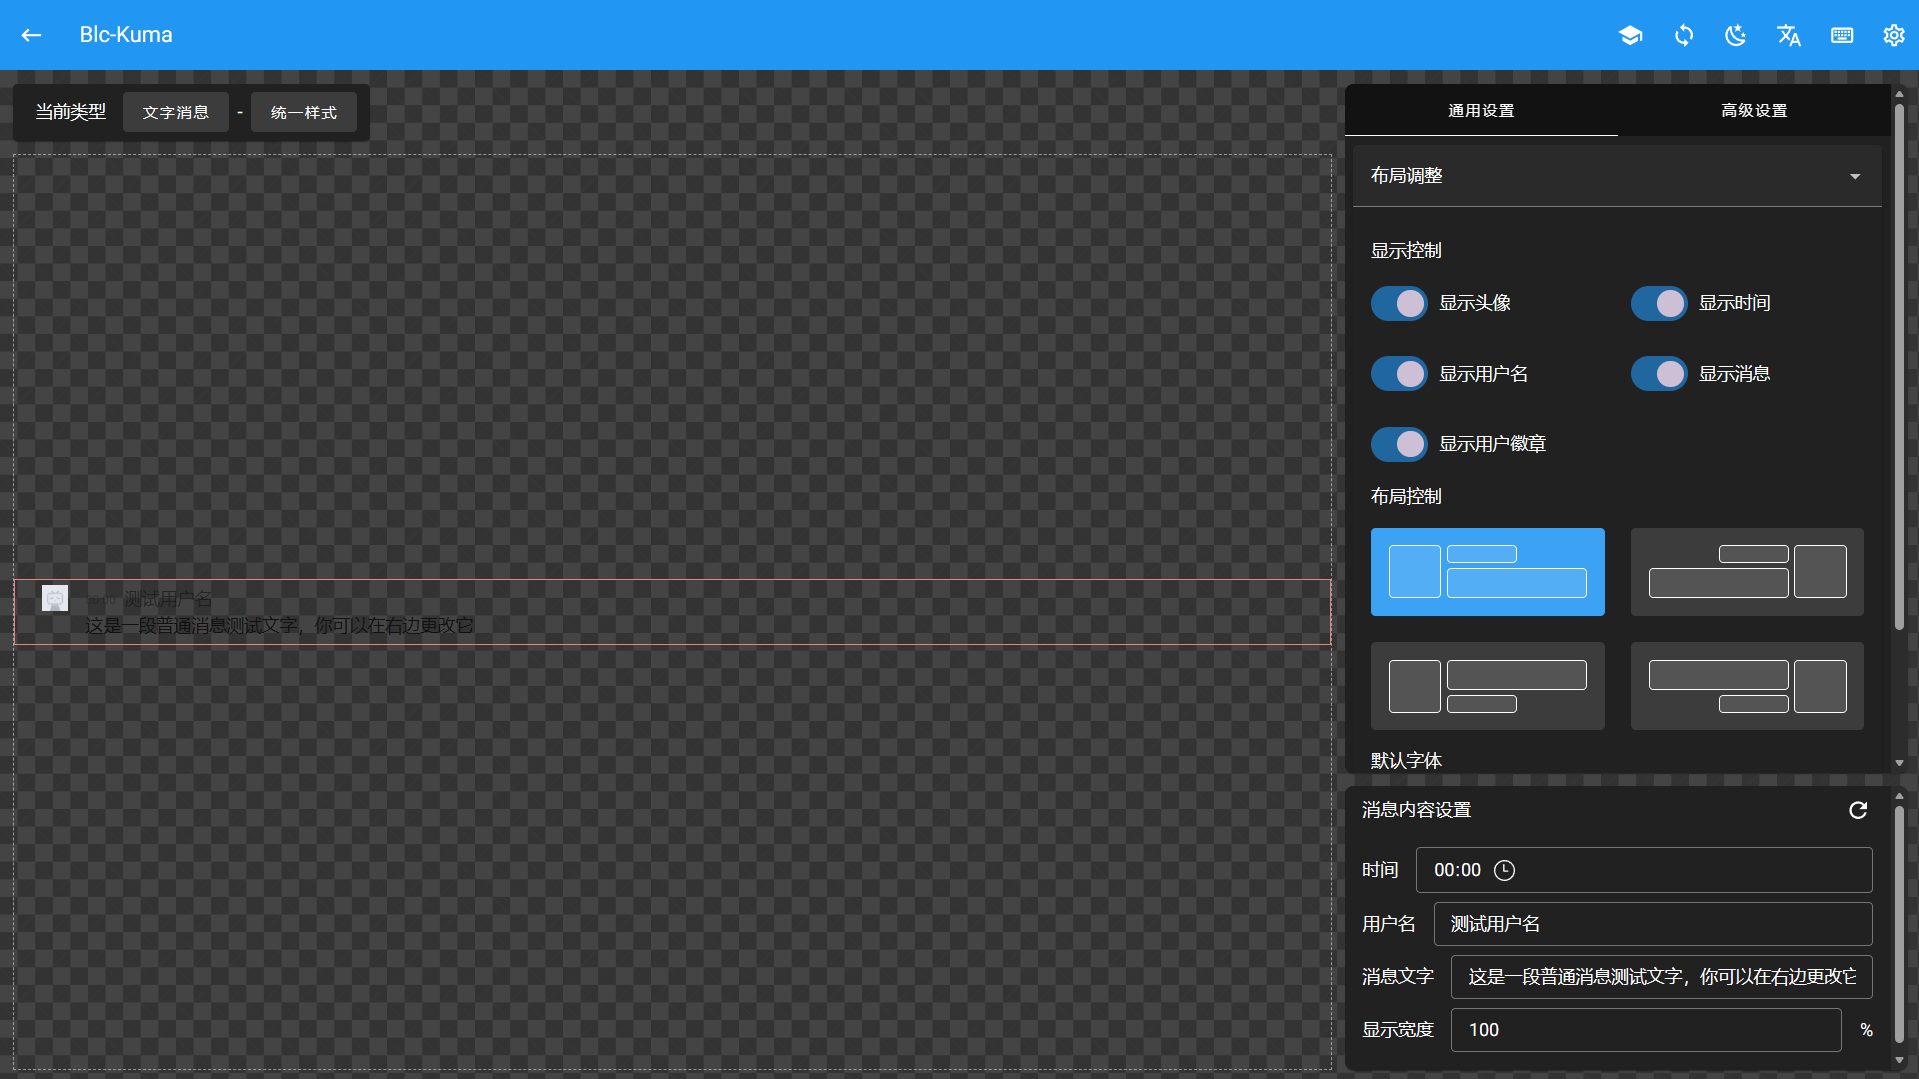
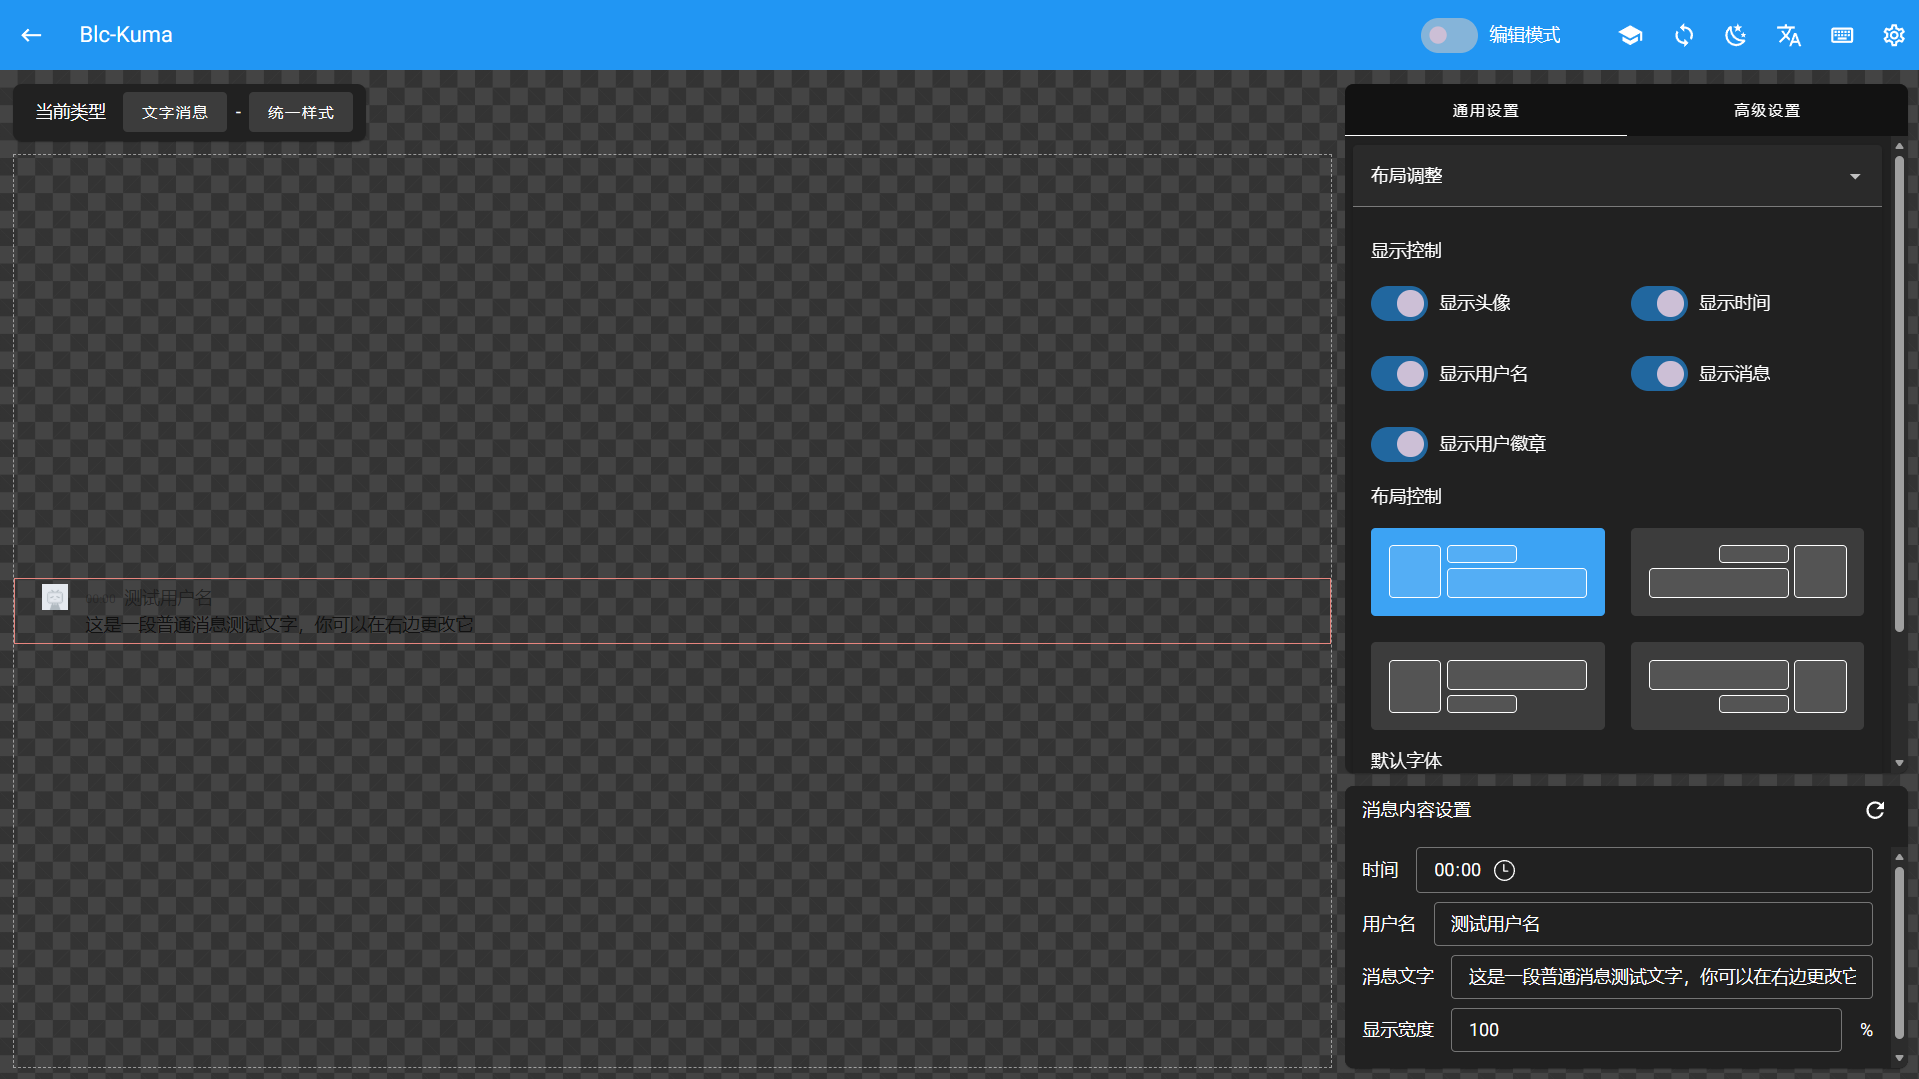
Doc: update page guide with new editor and agent modes

diff --git a/zhHans/002-page-guide/001-agent.md b/zhHans/002-page-guide/001-agent.md
@@ -1,0 +1,75 @@
+---
+id: agent-mode
+title: 智能模式
+description: 了解智能模式和功能
+order: 1
+parent: page-guide
+demos:
+  - key: model-select
+    component: ModelSelect
+previous: editor-mode
+---
+
+# 智能模式
+
+_智能模式仍在积极开发中，欢迎您反馈问题和建议。_
+
+智能模式能够通过直接向 AI 助手下达指令来快速调整样式，并支持全局或局部调整模式。
+
+要使用智能模式，您需要先配置 AI 供应商的 API Key 和模型。
+
+## 设置模型
+
+_您的 API Key 将始终被保存在本地，不会上传至我们的服务器，并且仅在使用智能模式时调用。_
+
+目前可用的 AI 供应商包括：
+
+- [Vercel AI Gateway](https://vercel.com/ai-gateway)
+- [OpenAI](https://openai.com/)
+- [Anthropic](https://claude.com/)
+- [Google](https://gemini.google.com/)
+- [Ollama](https://ollama.com/)
+
+您可以通过点击聊天框左下角的设置选项弹出的面板进行配置。
+
+<!-- demo:model-select -->
+
+> 本地配置的 Ollama 模型可能因参数问题或硬件性能导致表现不佳，您可以尝试更换模型或使用其他 AI 供应商。
+
+在设置完 API Key 后，您可以在列表中选择您想要使用的模型，模型对应的具体供应商也将显示在选项后方。
+
+## 模式选择
+
+_通过调整模式，您可以控制助手对样式的调整范围。_
+
+|| 全局模式 | 局部模式 |
+| --- | --- | --- |
+| Token 消耗 | 较高 | 低 |
+| 调整速度 | 慢 | 快 |
+| 调整范围 | 所有消息类型 | 选中的消息类型 |
+| 适用范围 | 整体修改或快速生成全局样式 | 局部调整单一消息样式 |
+| 预览内容 | 全部消息类型 | 选中的消息类型 |
+
+## 提示词
+
+配置好模型和模式后，在聊天框中输入提示词来让助手为您调整样式。除了文本内容外，您也可以指示助手使用您添加至项目中的图片或指定您想要使用的图层。
+
+### 使用图片
+
+通过点击聊天框下面的图片选项展开项目图片列表。
+
+> 目前不支持参考图输入功能，您的所有图片都将直接被使用。
+
+### 指定图层
+
+通过点击聊天框下面的 `@` 选项展开图层列表并指定图层。
+
+## 历史消息
+
+_您的所有提示词和回复都将被保存至历史消息列表中，您可以随时查看和编辑。_
+
+### 撤销修改
+
+在发送的每条提示词记录下方都有一个撤销按钮，点击后样式将恢复至该提示词发送前的状态，您可以在聊天框中重新编辑提示词并再次发送。
+
+> 尽管撤销重做快捷键在智能模式下也可以使用，但我们并不推荐，因为智能模式也会修改一些快捷键无法控制的内容，例如全局 CSS 和项目图片。

diff --git a/zhHans/002-page-guide/000-editor.md b/zhHans/002-page-guide/000-editor.md
@@ -1,0 +1,52 @@
+---
+id: editor-mode
+title: 编辑模式
+description: 编辑模式简介
+order: 1
+parent: page-guide
+demos:
+  - key: message-type-selector
+    component: MessageTypeSelectorDemo
+  - key: message-preview
+    component: MessagePreviewDemo
+  - key: operation-list
+    component: OperationListDemo
+  - key: user-setting
+    component: UserSettingDemo
+previous: page-guide
+next: agent-mode
+---
+
+# 编辑模式
+
+编辑模式为您提供了丰富的样式编辑功能，该模式下您可以完全把控样式的所有细节
+
+## 类型选择
+
+在预览区域的左上角，您可以选择要调整的消息类型。
+
+<!-- demo:message-type-selector -->
+
+## 消息预览
+
+在类型选择选项下方为当前选中类型的消息样式预览。在高级设置模式下，你也可以通过点击预览内容来选中对应的图层。
+
+<!-- demo:message-preview -->
+
+> 高级设置模式下，鼠标悬停在图层上时也会有红色边框显示在预览中的对应图层上。
+
+## 编辑区域
+
+### 样式选项
+
+样式选项中包含了编辑器的绝大部分操作内容，你可以在这里自由地进行样式编辑。
+
+<!-- demo:operation-list -->
+
+### 消息内容设置
+
+消息内容设置区域能够配置预览中的显示内容，您可以在这里进行各种操作以预览样式在不同情况下的显示效果。
+
+<!-- demo:user-setting -->
+
+_消息内容设置中的内容不会保存到配置中，每次进入编辑器都会重置。_
